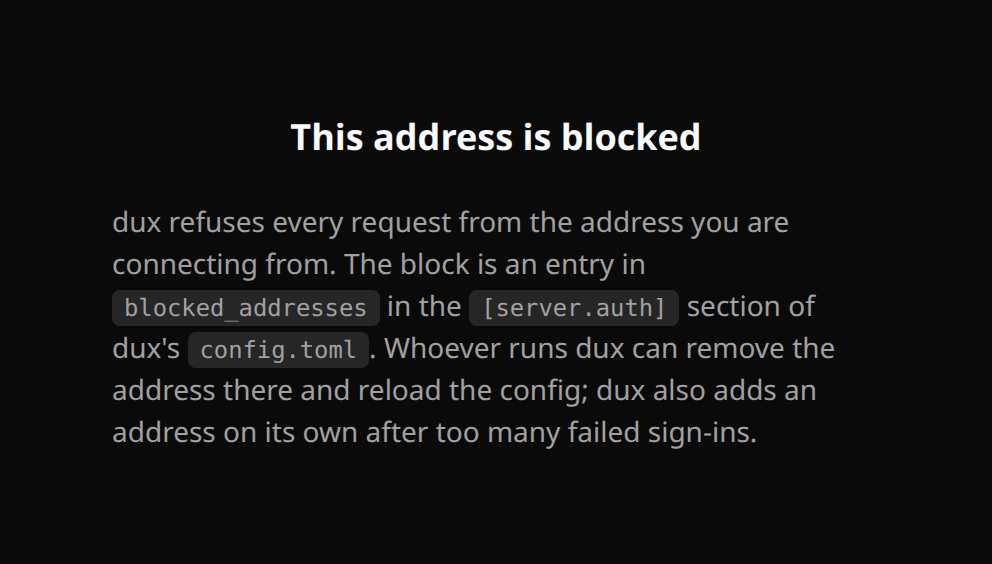
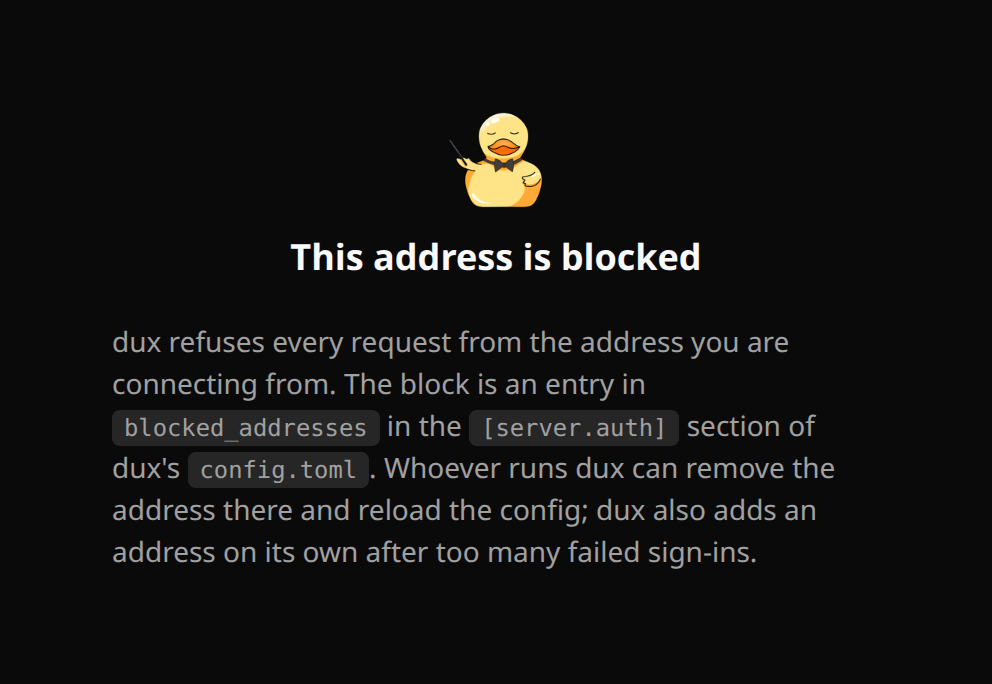
Reshoot the blocked page with the duck over its heading, and dux config set at 106 columns, exactly the width of the words before the config path, so the path starts its own row whole and the text stays readable at docs width

Changed region(s): [[0.0938, 0.4521, 0.8438, 0.844], [0.0938, 0.3316, 0.8125, 0.422], [0.2812, 0.1507, 0.7188, 0.3014]]

diff --git a/tools/preview-env/screens/scenes/config-set-password.js b/tools/preview-env/screens/scenes/config-set-password.js
@@ -35,12 +35,20 @@ module.exports.expectText = [
   "New web UI password [",
   "Type it again:",
   "The web UI password is stored",
-  "Argon2id hash is in server.auth.password_hash in /home/you/.config/dux/config.toml",
+  "Argon2id hash is in server.auth.password_hash in",
+  // The path opens a row of its own, whole: the terminal is exactly as wide as
+  // the words before it, so the wrap lands on the space and never mid-path.
+  "\n/home/you/.config/dux/config.toml, and the password itself is stored nowhere.",
   "dux is not running",
 ]
 
 module.exports.file = "config-set-password.png"
-module.exports.cols = 200
+// The stored line's words before the path, "The web UI password is stored
+// (strength: excellent): its Argon2id hash is in server.auth.password_hash in ",
+// are 106 characters, trailing space included, so at 106 columns the path starts
+// the next row whole. Any wider and the path is cut mid-word; much wider and
+// the text is too small at docs width.
+module.exports.cols = 106
 module.exports.rows = 24
 module.exports.theme = "dux_dark"
 module.exports.crop = "content"

diff --git a/website/docs/web-login.md b/website/docs/web-login.md
@@ -306,7 +306,7 @@ A wrong password costs time, and repeated wrong passwords cost the address:
 A blocked address gets a page saying it is blocked and where the block lives, and nothing
 else: no sign-in page, no app, with or without a password.
 
-![The page a blocked address gets when it opens dux: the heading This address is blocked, and a paragraph saying the block is an entry in blocked_addresses in the [server.auth] section of dux's config.toml, that whoever runs dux can remove it and reload, and that dux adds an address on its own after too many failed sign-ins.](/screens/blocked-page.png)
+![The page a blocked address gets when it opens dux: the dux duck over the heading This address is blocked, and a paragraph saying the block is an entry in blocked_addresses in the [server.auth] section of dux's config.toml, that whoever runs dux can remove it and reload, and that dux adds an address on its own after too many failed sign-ins.](/screens/blocked-page.png)
 
 Which address a block lands on depends on what dux can check for itself:
 
